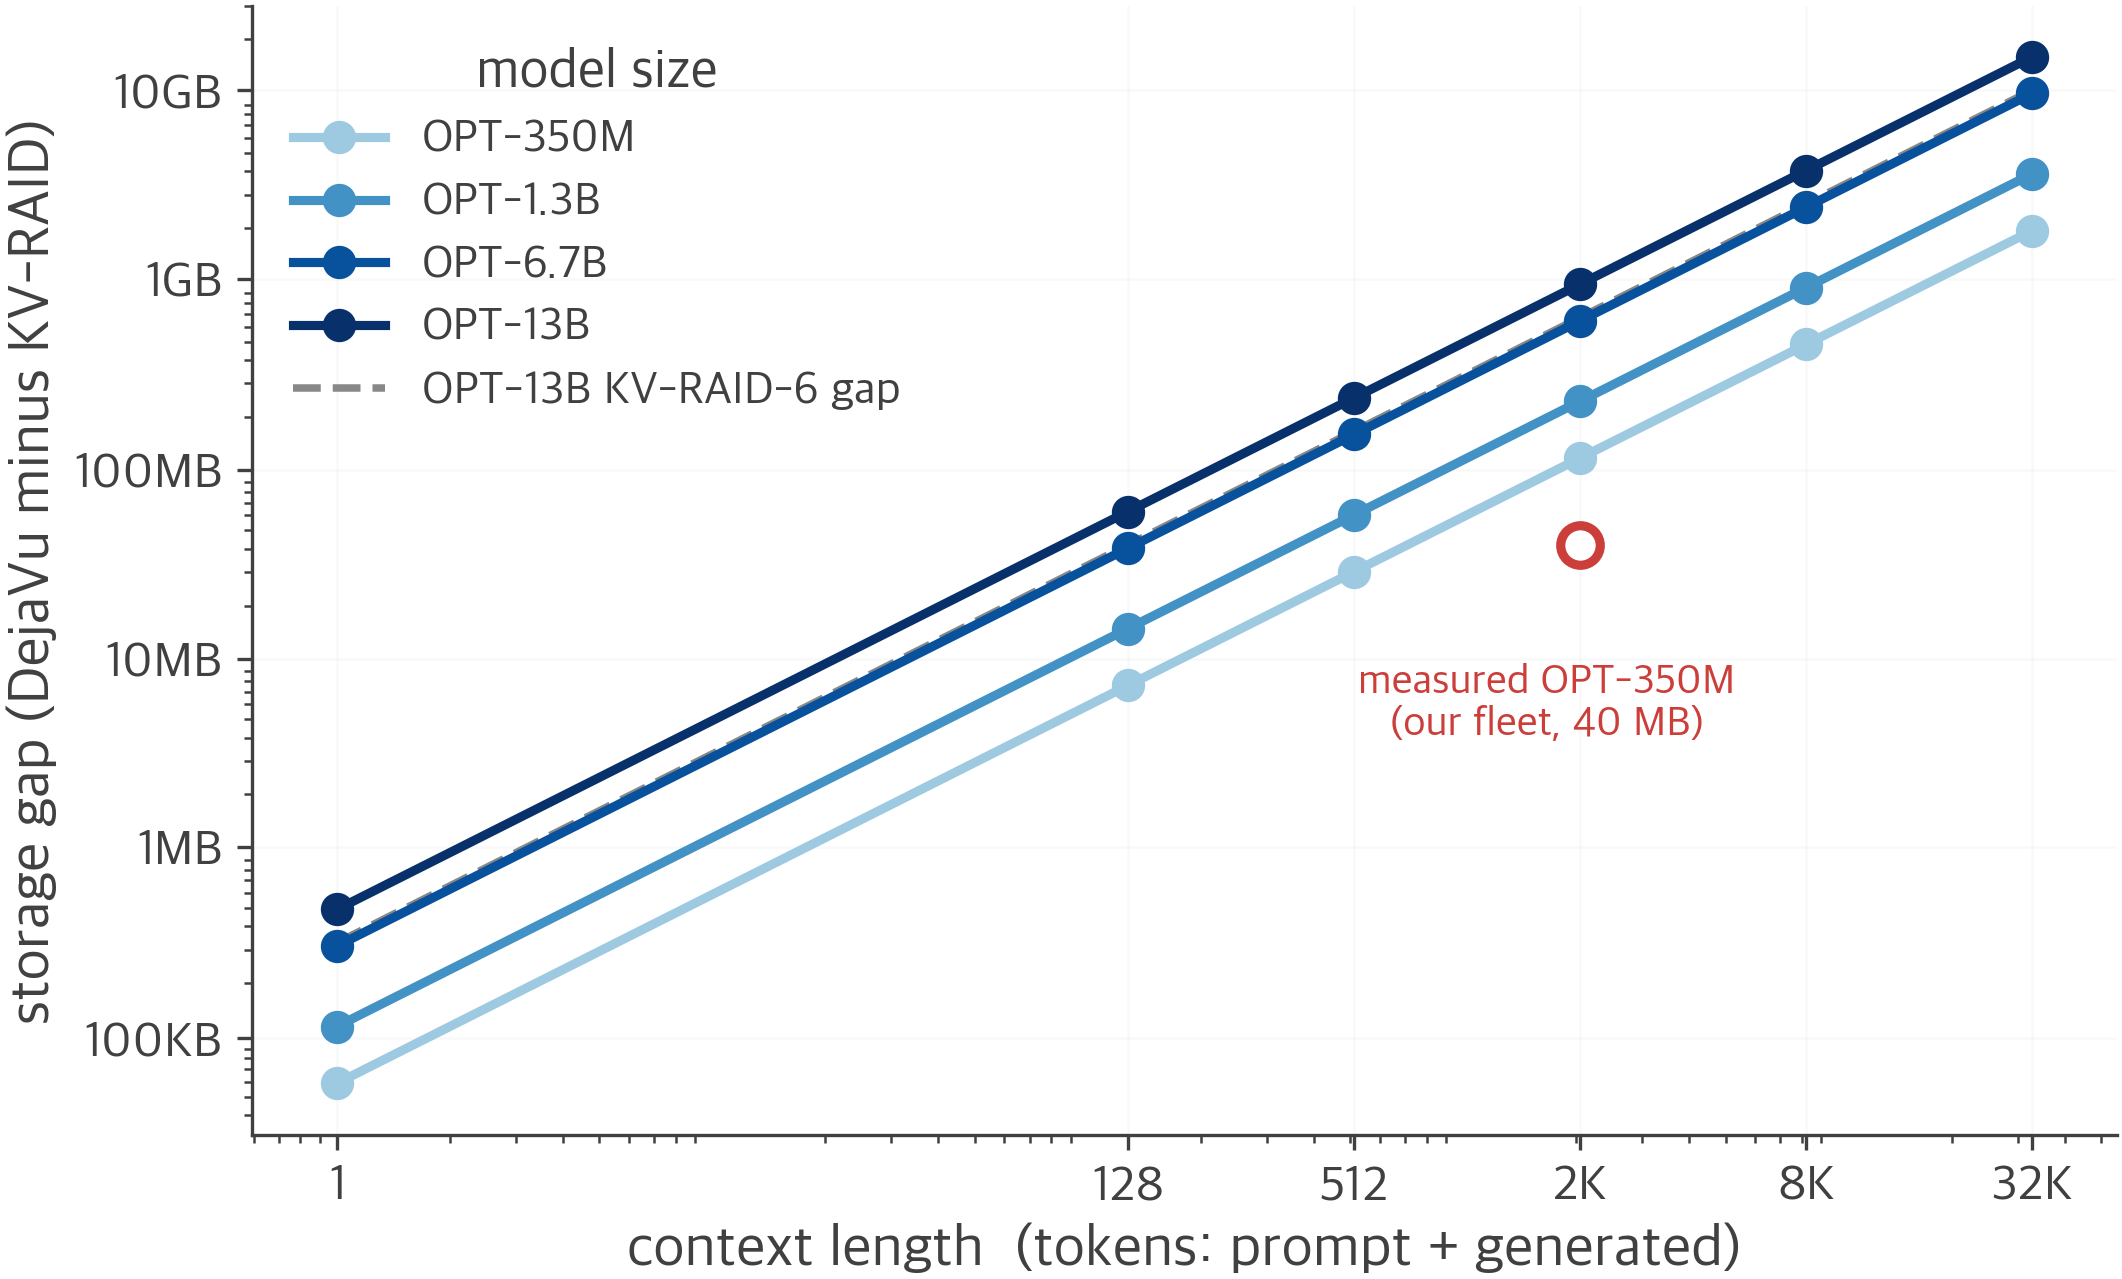
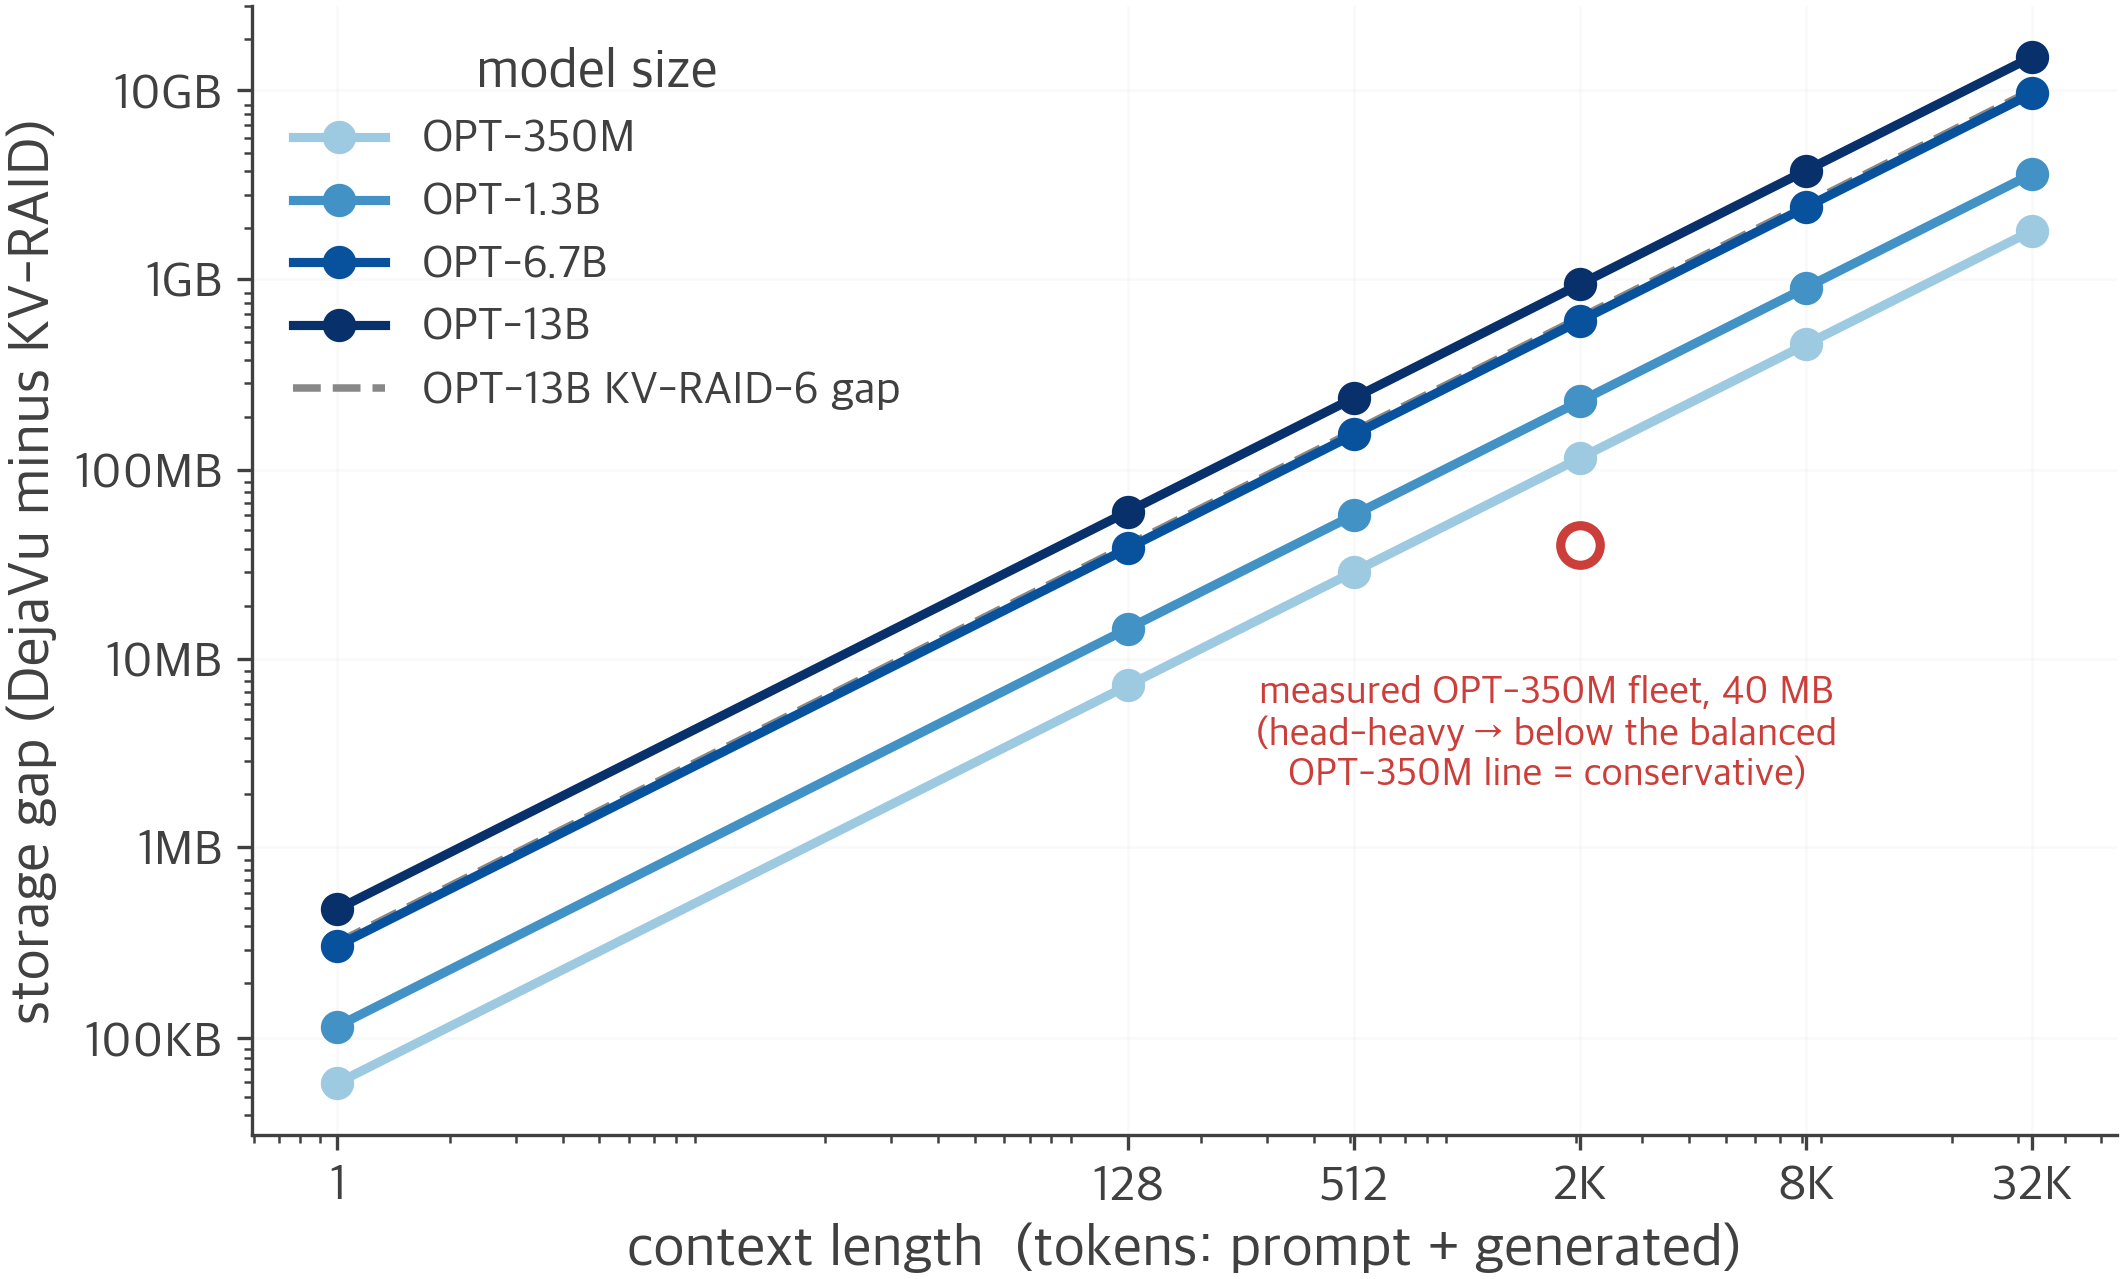
docs(figures): purge old family terms from ttr_slide comments; clarify storage anchor
recovery_ttr_slide: docstring/comments used surgical/parity/replicate — rewritten
to Petals/KV-RAID/DejaVu, with a note that the lowercase dy/STYLE keys are the
INTERNAL recovery_mode identifiers (match results-JSON t["mode"], must not be
renamed). Rendered labels were already correct via NAME. storage_scaling_models:
red measured-fleet anchor annotation now says why it sits below the balanced line
(head-heavy fleet → conservative). No data changes.

Claude-Session: https://claude.ai/code/session_01FfKQPAstkv5E1GtvR5op9j

Changed region(s): [[0.591, 0.5184, 0.8709, 0.6099]]

diff --git a/paper/figures/make_recovery_ttr_slide.py b/paper/figures/make_recovery_ttr_slide.py
@@ -7,11 +7,17 @@ happened — the token index the victim died on — not how deep in the pipeline
 victim sat. We vary the victim's chain position separately, so the two must not
 share a word.
 
-**Log y-axis on purpose.** On a linear axis full-replay reaches 6 s and squashes
-surgical and parity into the bottom 5% of the plot — the very contrast the
-figure exists to show. Log keeps a flat line flat (parity's ~0 slope still reads
+**Log y-axis on purpose.** On a linear axis Recompute reaches 6 s and squashes
+Petals and KV-RAID into the bottom 5% of the plot — the very contrast the
+figure exists to show. Log keeps a flat line flat (KV-RAID's ~0 slope still reads
 as flat) while letting all three separate. The normal-decode-step line gives the
 audience an absolute anchor so the log axis can't overstate the win.
+
+Display names (paper-facing, via _slide.NAME): Recompute (full_replay), Petals
+(surgical), DejaVu (replicate), Reconfigure (reactive_replacement), KV-RAID
+(parity). The lowercase keys below (STYLE, the dy dict) are the INTERNAL
+recovery_mode identifiers that match the results-JSON ``t["mode"]`` strings and
+must NOT be renamed — only the rendered labels come from NAME.
 """
 from __future__ import annotations
 
@@ -31,8 +37,8 @@ RESULTS = Path(__file__).parent.parent.parent / "experiments" / "results"
 d = json.load(open(RESULTS / "b1_ft_fleet_parity.json"))
 trials, fits = list(d["trials"]), dict(d["fits"])
 
-# replicate JSON lands after the controller-run fleet sweep (Task 6). Guard
-# so this script still renders the 3-line parity figure until it exists.
+# DejaVu (replicate) JSON lands after the controller-run fleet sweep (Task 6).
+# Guard so this script still renders the 3-line KV-RAID figure until it exists.
 replicate_path = RESULTS / "b1_ft_fleet_replicate.json"
 if replicate_path.exists():
     rep = json.load(open(replicate_path))
@@ -94,13 +100,14 @@ for mode, (color, marker, label) in STYLE.items():
             color=color, linewidth=1.8, alpha=0.9, zorder=3)
 
     # 범례 대신 선 끝에 직접 이름을 붙인다. 눈이 범례와 선을 오갈 일이 없다.
-    # parity/replicate 는 둘 다 평평해 선 끝(≈0.3s)에서 라벨이 겹친다 —
+    # KV-RAID/DejaVu 는 둘 다 평평해 선 끝(≈0.3s)에서 라벨이 겹친다 —
     # 세로로 살짝 벌려 둘 다 읽히게 한다 (offset points 로 픽셀 단위 이동).
     slope_ms = f["slope"] * 1e3
     tail = f["intercept"] + f["slope"] * 36
-    # 오른쪽 아래는 surgical(0.83s)·parity·replicate(둘 다 ≈0.32s) 세 라벨이 몰린다.
-    # surgical 바로 위(full-replay 6.2s까지)는 비어 있으므로 surgical 을 위로 올려 공간을
-    # 내고, parity(위)·replicate(아래)를 그 밑에서 크게 벌린다 — 2줄 라벨이 안 겹치게.
+    # 오른쪽 아래는 Petals(0.83s)·KV-RAID·DejaVu(둘 다 ≈0.32s) 세 라벨이 몰린다.
+    # Petals 바로 위(Recompute 6.2s까지)는 비어 있으므로 Petals 를 위로 올려 공간을
+    # 내고, KV-RAID(위)·DejaVu(아래)를 그 밑에서 크게 벌린다 — 2줄 라벨이 안 겹치게.
+    # (키는 내부 recovery_mode 식별자 — 유지; 표시 이름은 STYLE 의 NAME[...] 에서.)
     dy = {"surgical": 20, "parity": 16, "replicate": -28}.get(mode, 0)
     # reactive is flat at tens of seconds — a fitted per-position slope is pure
     # measurement noise (a spurious sign), so label it with its LEVEL, not a
@@ -122,7 +129,7 @@ ax.set_xlabel("failure position  P   (tokens generated before the crash)")
 ax.set_ylabel("recovery time (s, log)")
 ax.set_yscale("log")
 ax.set_xlim(0, 36)
-# reactive lands at ~50–64 s — the axis must span from parity's ~0.2 s all the
+# Reconfigure lands at ~50–64 s — the axis must span from KV-RAID's ~0.2 s all the
 # way up to it, so the two-order-of-magnitude gap is the story the plot tells.
 ax.set_ylim(0.12, 130)
 ax.set_xticks([0, 8, 16, 24, 32])

diff --git a/paper/figures/make_storage_scaling_models.py b/paper/figures/make_storage_scaling_models.py
@@ -36,9 +36,10 @@ for name, color in zip(PLOT, COLORS):
 # measured OPT-350M anchor (real fleet, head-heavy: gap 20480 B/token)
 ax.scatter([2048], [20480 * 2048], s=90, facecolor="white",
            edgecolor="#CB3E3A", linewidth=2.2, zorder=5)
-ax.annotate("measured OPT-350M\n(our fleet, 40 MB)", xy=(2048, 20480 * 2048),
-            xytext=(-8, -46), textcoords="offset points", ha="center",
-            fontsize=10, color="#CB3E3A")
+ax.annotate("measured OPT-350M fleet, 40 MB\n(head-heavy → below the balanced\nOPT-350M line = conservative)",
+            xy=(2048, 20480 * 2048),
+            xytext=(-8, -58), textcoords="offset points", ha="center",
+            fontsize=9.5, color="#CB3E3A")
 
 KB, MB, GB = 1024, 1024**2, 1024**3
 ax.set_xscale("log"); ax.set_yscale("log")
